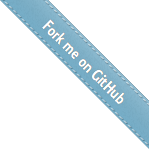
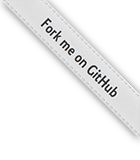
Adjustments

diff --git a/index.htm b/index.htm
@@ -7,15 +7,17 @@
 </head>
 <body>
 
+<a class="fork_me" href="https://github.com/hbi99/genie.js" target="_new"><img src="img/forkme.png" alt="Fork me"/></a>
+
 <img id="genie_text" src="img/genie_text.png"
      data-frames="[[[34.8,15.2,3.6]],[[34.4,14,4.2]],[[33.8,12.2,4.6]],[[32.6,11.6,4.8]],[[30.8,11.4,4.8]],[[28.4,11.4,4.8]],[[24.8,11,4.8]],[[22,11.8,4.8]],[[19.4,12.8,4.8]],[[17,14.2,4.8]],[[15.2,16,4.8]],[[12.8,17.8,4.8]],[[10.4,20.4,4.8]],[[8.4,22.8,4.8]],[[7.6,25.4,4.8]],[[7.2,28,4.8]],[[7.4,30.6,4.8]],[[7.2,32.8,5.8]],[[7.8,35.6,5.8]],[[9.6,38,5.8]],[[11.6,40.4,5.8]],[[13.8,41.4,5.8]],[[17,41.4,5.8]],[[19.6,40.2,5.8]],[[23.8,39,4.2]],[[25.8,37,4.2]],[[27.6,34.4,4.2]],[[29.6,32.4,4.2]],[[31.8,29.8,3.2]],[[33,28.8,3.2]],[[33.8,27.4,3.2]],[[34.8,26,3.2]],[[31.8,26.6,4.2]],[[29.8,28.4,4.2]],[[28.2,28,4.6]],[[25,28.2,4.6]],[[22.6,28.8,4.6]],[[20.2,29.8,4.6]],[[27.8,27.6,4.6]],[[27.8,27.6,4.6]],[[31.8,29.6,4.6]],[[30.8,32,4.6]],[[30.6,34.2,4.6]],[[29.8,35.4,6.2]],[[28.4,38.6,6.2]],[[27.6,41.6,6.2]],[[27.2,44.4,6.2]],[[25.6,47.8,6.2]],[[49,32.6,2.2]],[[50.6,32.4,3.4]],[[52.2,31.6,3.8]],[[55,30.6,3.8]],[[57.6,29.2,3.8]],[[59.8,27.8,3.8]],[[60.6,26.6,4.6]],[[60.8,24.6,4.6]],[[60.8,22.2,4.6]],[[59,21,4.6]],[[55.6,21.2,4.6]],[[52.4,21.4,4.6]],[[48.6,22.6,4.6]],[[46.8,25.2,4.6]],[[45.2,27.4,4.6]],[[44.4,30.8,4.6]],[[44,33.8,4.6]],[[44.4,36.6,4.6]],[[45,38.8,5.4]],[[47,40.6,5.4]],[[49,41.8,5.4]],[[52.2,42.2,5.4]],[[55.2,41.4,5.4]],[[58,40.4,5.4]],[[60.4,38.8,5.4]],[[63,37,5.4]],[[65.2,35,5.4]],[[67.2,33,5.4]],[[68.8,30.4,5.4]],[[69.6,27.6,5.4]],[[71.4,27.4,5.4]],[[73.2,25.6,5.4]],[[74.6,24.6,5.4]],[[75.8,23.6,5.4]],[[76.6,23,5.4]],[[75.8,25,5.4]],[[75.6,27.8,5.4]],[[75,29.6,5.4]],[[74.8,32.8,5.4]],[[74.6,35.8,5.4]],[[74.4,38.4,5.4]],[[73.8,42,5.4]],[[74.4,43,5.4]],[[76.2,41.4,5.4]],[[77,38.4,5.4]],[[78.4,36,5.4]],[[80.4,33.6,5.4]],[[82.6,31.2,5.4]],[[84,28.4,5.4]],[[85.6,26.2,5.4]],[[87.8,23.4,5.4]],[[90,20.8,5.4]],[[93,20.8,5.4]],[[95.6,22.8,5.4]],[[95.6,26,5.4]],[[95.6,29.8,5.4]],[[95.6,32.2,5.4]],[[95.6,35,5.4]],[[95.8,38,5.4]],[[96.6,41.2,5.4]],[[99.6,42.2,5.4]],[[101.8,41,5.4]],[[103.8,39,5.4]],[[105.4,36.4,5.4]],[[107,34.2,5.4]],[[108.8,31.6,5.4]],[[110.6,29.4,5.4]],[[112,27.8,5.4]],[[113.6,26,5.4]],[[116.4,25,5.4]],[[116.2,27.6,5.4]],[[115,29.8,5.4]],[[115,32.4,5.4]],[[114.6,35.4,5.4]],[[114.2,38.2,5.4]],[[114.8,40.8,5.4]],[[118,43,5.4]],[[120.8,42.4,5.4]],[[123.4,40,5.4]],[[125.4,38.2,5.4]],[[126.8,36.2,5.4]],[[128.4,33.4,5.4]],[[132.2,31.4,3.6]],[[133.4,29.4,3.6]],[[134.8,27.4,3.6]],[[136.4,26.4,3.6]],[[138.8,24.6,3.6]],[[141,22.8,3.6]],[[143,21,3.6]],[[146.4,20,3.6]],[[149.6,20.2,3.6]],[[152.4,22.4,4.6]],[[152.8,24.6,4.6]],[[151.6,27,4.6]],[[150,28.8,4.6]],[[147.6,30.6,4.6]],[[146,31,4.6]],[[144.4,32.2,4.6]],[[143.4,32.6,4.6]],[[142.2,26.8,4.6]],[[139.8,29.4,4.6]],[[137.2,31.8,4.6]],[[137.2,34.4,4.6]],[[137.2,36.2,6]],[[137.2,39.6,6]],[[140.6,41.8,6]],[[144,41.8,6]],[[148,41.6,6]],[[150.6,40,6]],[[153.6,38,6]],[[156.4,36.8,6]],[[158.6,34.8,6]],[[160.4,32.6,6]],[[162.2,31,6]],[[164.6,26.8,6]],[[116.6,18,2.4]],[[117.6,17.4,3.6]],[[118.8,15.6,4.6]],[[121,14.2,4.6]],[[123.4,13,4.6]],[[124.6,10.8,4.6]],[[125.2,10,4.6]],[[125.2,10,4.6]],[[125.2,10,4.6]],[[187.6,32.6,2.6]],[[189.2,32.2,3.2]],[[192,31,4]],[[195.2,29.4,4]],[[198,27,4]],[[199,25,4]],[[199.2,22.8,4]],[[197.8,21.4,4.8]],[[194.6,20.8,4.8]],[[190.6,21,4.8]],[[187.4,22.6,4.8]],[[185.4,24.4,4.8]],[[183.2,27.2,4.8]],[[183,30.8,4.8]],[[182.8,32.8,6.4]],[[182.6,36.4,6.4]],[[184.2,40,6.4]],[[187.4,42.8,6.4]],[[191.6,42.8,6.4]],[[195.8,41.2,6.4]],[[198.2,39.4,6.4]],[[201,37.2,6.4]],[[202.8,35.4,6.4]],[[206.8,32.4,3.8]],[[209.2,30.2,3.2]],[[230.6,9.4,3.2]],[[231.4,6.8,3.8]],[[229.6,5.2,3.8]],[[231,6.2,4.6]],[[227.6,5.8,4.6]],[[224.2,6.8,4.6]],[[221.4,8.8,4.6]],[[219.2,11.4,4.6]],[[218,14.4,4.6]],[[217.6,17.2,4.6]],[[216.8,20.4,3.4]],[[216.4,22.4,3.4]],[[215.6,25,3.4]],[[215.2,28,3.4]],[[215.2,29.6,3.4]],[[214.8,31.2,4.2]],[[214.4,32.8,5.4]],[[213.6,35.6,5.4]],[[213.4,38.2,5.4]],[[212.4,41.2,5.4]],[[211.2,44.6,5.4]],[[211.2,47.8,5.4]],[[210.6,52.4,5.4]],[[249.8,10.6,2.8]],[[251,9.2,3.8]],[[249.8,7.2,4.8]],[[246.2,6,4.8]],[[242.6,6.8,4.8]],[[239.2,8.8,4.8]],[[237.4,12.2,4.8]],[[235.8,15.8,4.8]],[[235.4,17.8,4.8]],[[235,21.4,3.4]],[[234.4,23,3.4]],[[234,26,3.4]],[[233.2,28.4,3.4]],[[232.6,31.4,3.4]],[[232.8,32.6,5.2]],[[231.8,36,5.2]],[[231.2,39.2,5.2]],[[230.2,42.6,5.2]],[[229.6,44.6,5.2]],[[229.4,47.6,5.2]],[[229.2,51.6,5.2]],[[206.4,26.6,4]],[[208.8,25.4,4]],[[212.6,25,4]],[[215.4,24.6,5.8]],[[218,25,5.8]],[[221.6,25.2,5.8]],[[224.2,25.2,5.8]],[[228.6,24.8,5.8]],[[235.6,25,5.8]],[[239,25,5.8]],[[244.4,24.8,3.2]],[[246.8,24.4,3.2]],[[255,32.8,3.2]],[[257.6,31.6,3.2]],[[260,30.4,3.2]],[[262.4,29.6,4.2]],[[265,27.6,4.2]],[[266.2,25.2,4.2]],[[265.8,22.8,4.2]],[[264.2,20.8,4.2]],[[262,19.2,5.4]],[[258.6,19.6,5.4]],[[256,21.6,5.4]],[[252.8,23.4,5.4]],[[251.2,26.2,5.4]],[[249.8,29.4,5.4]],[[249.2,32.6,5.4]],[[249,35.6,5.4]],[[250,38.6,5]],[[250.2,40.2,6.4]],[[254,42.2,6.4]],[[258.4,41.8,6.4]],[[262.6,41,6.4]],[[265.2,39,6.4]],[[267,37,6.4]],[[271.2,34.2,3.6]],[[272,31.2,3.6]],[[274,31.2,3.6]],[[276.2,28.6,3.6]],[[277.8,27,3.6]],[[280.2,25.2,3.6]],[[282.6,23,3.6]],[[284.6,21.8,3.6]],[[288,20,3.6]],[[291.6,19.4,3.6]],[[294.4,20.6,3.6]],[[295,22.6,4.8]],[[284.4,23,4.8]],[[281.8,26.6,4.8]],[[280,28.8,4.8]],[[278.6,31.6,4.8]],[[278,34.4,4.8]],[[279,37.4,4.8]],[[279.4,40.4,6]],[[282.6,43,5.2]],[[285.4,43.8,5.2]],[[289,44,5.2]],[[292.6,42.4,5.2]],[[295.4,40.2,5.2]],[[297.2,37.4,5.2]],[[299,34.2,5.2]],[[300.6,32.2,5.2]],[[304.6,30,3]],[[306.2,28,3]],[[307.6,26.2,3]],[[309,24,3]],[[310.8,22.2,3.2]],[[310.8,20.6,3.2]],[[311.4,18.6,3.2]],[[312.4,16.8,3.2]],[[313.2,14.8,3.2]],[[313.8,12.4,3.2]],[[315.6,10.6,3.2]],[[316.4,9,4.2]],[[314.8,10,3.8]],[[313.8,12.2,4.2]],[[313.8,12.2,4.2]],[[311.6,19,3.8]],[[310.4,24.4,3.8]],[[309,28.2,4.4]],[[308.4,31.6,4.4]],[[308.2,34.8,4.4]],[[308.2,37.8,4.4]],[[309.6,40,5.6]],[[312,42.4,5.6]],[[315,41,5.6]],[[318,39.6,5.6]],[[322.6,36,5.6]],[[300.8,19.8,3.4]],[[302.6,17.6,4.2]],[[306.4,17.4,4.2]],[[313.2,17.2,5.4]],[[317.4,17,5.4]],[[321.6,17,5.4]],[[324.6,17,5.4]],[[328.6,17,5.4]],[[344.2,18,3]],[[346.4,18,4.8]],[[347.4,20.4,4.8]],[[349,23,4.8]],[[348.6,24.8,6.6]],[[349,28.6,6.6]],[[349.2,32.4,6.6]],[[349.2,36,6.6]],[[349.6,39.8,6.6]],[[349.8,44.2,6.6]],[[352,41.6,6.6]],[[355.6,39,4.6]],[[357,36.6,4.6]],[[358.2,34.4,4.6]],[[359.6,32,4.6]],[[361.4,29.2,4.6]],[[362.2,26.4,4.6]],[[363.4,23.8,4.6]],[[366,22,4.6]],[[365.2,26.2,4.6]],[[365,29,4.6]],[[364.6,32.6,4.6]],[[364.2,36.2,4.6]],[[364.8,39.6,4.6]],[[366.2,42.4,4.6]],[[369.2,43.4,4.6]],[[372.4,42.2,4.6]],[[374.2,39.8,4.6]],[[376.2,36.6,4.6]],[[378,33.6,4.6]],[[378.2,30.6,4.6]],[[378.6,27,4.6]],[[378.8,24.8,4.6]],[[378.2,21.6,5.8]],[[391.2,22.6,3.4]],[[392.2,24.4,4.6]],[[392.2,27.6,4.6]],[[391.4,31.2,4.6]],[[391.4,34.4,4.6]],[[390.4,37.4,4.6]],[[391.2,40.6,4.6]],[[394.2,42.8,4.6]],[[396.8,41.8,4.6]],[[399.6,40.6,4.6]],[[402,38.4,4.6]],[[404.2,36.2,4.6]],[[405.4,33.6,4.6]],[[408.8,31.6,3.2]],[[410.4,29.8,3.2]],[[412.2,27.6,3.2]],[[413.2,25.6,3.2]],[[414.4,23,3.2]],[[414.4,22.6,3.6]],[[415.2,20.8,3.6]],[[415.6,18.4,3.6]],[[415.8,16.8,3.6]],[[417,14.6,3.6]],[[418,12.2,3.6]],[[419.2,10,4.6]],[[419,10,5.4]],[[414,24.4,5.4]],[[413.2,28.6,5.4]],[[412.6,32.2,5.4]],[[412,36.6,5.4]],[[413.8,40.4,5.4]],[[417.4,41.2,5.4]],[[420,40,5.4]],[[424,36,5.4]],[[429.6,3,2.6]],[[430.8,4.6,3.6]],[[432.8,6,3.6]],[[435,5.8,3.6]],[[437,4.4,5]],[[439.8,4.2,5]],[[439.6,8.2,5]],[[439.6,11.6,5]],[[438.8,15.6,4]],[[437.4,18.8,4]],[[436.6,23.4,4]],[[435.8,26,3.2]],[[434.4,28.6,4.2]],[[434.4,31.4,4.2]],[[433.6,33.8,4.2]],[[433.4,36.4,4.2]],[[433.4,38.4,4.2]],[[433,40.6,4.2]],[[433,41.2,6.2]],[[434.4,37.8,6.2]],[[436.4,33.6,6.2]],[[438.4,30.6,6.2]],[[440.4,27.6,6.2]],[[442.8,23.6,6.2]],[[446.8,21.8,6.2]],[[451.8,20.8,6.2]],[[453,25.4,6.2]],[[453.4,29.2,6.2]],[[453.2,33,6.2]],[[453.2,36.6,6.2]],[[455.6,39.8,6.2]],[[459.6,38.6,6.2]],[[462.4,36.6,6.2]],[[465.2,33.6,6.2]],[[467.4,31,6.2]],[[470.8,27.8,6.2]],[[404.4,18.8,3.6]],[[406.8,17.4,3.6]],[[408.4,17.2,4.4]],[[412,17,4.4]],[[417,16.8,5.4]],[[419,16.8,5.4]],[[421.6,16.8,5.4]],[[424.4,16.6,5.4]],[[426.8,16.6,5.4]],[[430.2,16.6,5.4]],[[431.6,16.4,5.4]],[[392,18.4,4]],[[393.8,17,4]],[[395.6,15.6,4]],[[396.8,14.6,4]],[[398.6,13.8,4]],[[399.8,12.4,4]],[[401.4,10.8,4]],[[500.6,15,4]],[[499.4,16.6,5]],[[498.8,19.2,5]],[[498.4,21.6,5]],[[497.8,25,5]],[[497.4,28,5]],[[496.8,30.6,5]],[[496,33.2,5]],[[496,36.8,5]],[[495.8,37.8,6.4]],[[494.2,41,6.4]],[[493.2,44.6,6.4]],[[491.2,47.6,6.4]],[[488.8,50.4,6.4]],[[485.6,53.4,6.4]],[[481,53.8,6.4]],[[477.6,51,6.4]],[[534,16.4,3.8]],[[534,14.4,3.8]],[[533.2,12.4,3.8]],[[532,12,4.8]],[[529.2,11.8,4.8]],[[525.4,11.8,4.8]],[[523,12.8,4.8]],[[520,14.4,4.8]],[[518.4,18.4,4.8]],[[518.8,21.4,4.8]],[[519.6,23,6]],[[522.8,25.2,5.2]],[[523.8,27.8,5.2]],[[525.2,28.8,6.4]],[[528.8,31.6,6.4]],[[529.2,34.4,6.4]],[[530,38.6,6.4]],[[527.6,41.2,6.4]],[[524.8,43.4,6.4]],[[522,45.8,6.4]],[[518.4,45.4,6.4]],[[514,45.2,6.4]],[[512.8,40.6,6.4]],[[488.6,10,5.2]],[[490.6,10.4,5.2]],[[493.4,9.8,5.2]],[[496.6,9.6,5.2]],[[499.4,9.6,5.2]],[[502.2,9.8,5.6]],[[505.6,9.8,5.6]],[[507.8,9.8,5.6]],[[509.6,10.4,5.6]],[[583.4,16.2,4.2]],[[583,13,4.2]],[[581.2,11.8,4.2]],[[578.8,11,4.2]],[[575.8,10.2,4.2]],[[571.8,10,4.2]],[[569.4,11.6,4.2]],[[566.6,13.8,4.2]],[[566.4,16.4,4.2]],[[566.8,19.2,4.2]],[[569.8,18.8,5.8]],[[571.8,21.2,5.2]],[[573.4,23,5.2]],[[575.2,23.2,5.2]],[[571.4,24.4,5.2]],[[567.8,24.4,5.2]],[[565.2,26.2,5.2]],[[562,28.4,5.2]],[[560.4,31.6,5.2]],[[559.4,34.8,5.2]],[[559.8,38.4,5.2]],[[561,41.2,5.2]],[[563.8,43.2,5.2]],[[567.6,43.8,5.2]],[[570.6,43.4,5.2]],[[574,42.4,5.2]],[[575.8,41.8,5.2]],[[579.8,39.4,3.4]],[[581.6,37.8,3.4]],[[583.6,35.4,3.4]],[[585.4,33.6,3.4]],[[586.4,32.2,3.4]],[[586.8,30.2,3.4]],[[586,34,3.4]],[[585.2,36.6,3.4]],[[585,39.4,3.4]],[[584.8,40.2,4.6]],[[584.2,42.8,4.6]],[[584,45,5.4]],[[584.8,47.6,5.4]],[[578.4,26.8,5.4]],[[580.8,26.6,5.4]],[[583.6,26.6,5.4]],[[586.6,26.6,5.4]],[[589,26.8,5.4]],[[591.2,26.8,5.4]],[[595,26.8,5.4]],[[645.6,16.8,3.8]],[[645.4,15.4,4.6]],[[645.2,13.2,4.6]],[[642.6,11.6,5.4]],[[639,11.6,5.4]],[[635.4,11.8,5.4]],[[631.2,12.6,5.4]],[[627.6,14.2,5.4]],[[625.4,16.8,5.4]],[[623.4,20.4,5.4]],[[621.8,24.2,5.4]],[[621.4,28,5.4]],[[620.8,31.6,5.4]],[[621.2,34.8,5.4]],[[622.2,38.2,5.4]],[[625,40.6,5.4]],[[628.2,42.8,5.4]],[[632.8,43.2,5.4]],[[636.6,42.8,5.4]],[[640.2,40.8,5.4]],[[643,38.4,5.4]],[[645.2,36.4,5.4]],[[676.6,16,3.6]],[[676,13.4,3.6]],[[674.6,12,4.4]],[[670.8,10.6,4.4]],[[667,10.4,4.4]],[[663.2,11.4,4.4]],[[661.6,14,4.4]],[[660.8,16.2,4.4]],[[660.6,19,4.4]],[[661.4,20.8,5.2]],[[662.6,23.8,5.2]],[[666.6,26.6,5.2]],[[669.4,30,5.2]],[[670.8,32.8,5.2]],[[671.8,36.2,5.2]],[[671.4,39,5.2]],[[670.2,42.6,5.2]],[[667.6,44.6,5.2]],[[664.4,46,5.2]],[[660.8,46.2,5.2]],[[657.6,45.4,5.2]],[[655.2,43.4,5.2]],[[654.4,39.2,5.2]],[[704.4,17.2,3]],[[704.4,15.2,4]],[[703.2,12.2,4]],[[701.2,10.4,5.4]],[[698,10.8,5.4]],[[694,11.4,5.4]],[[691,13.2,5.4]],[[689.2,15.8,5.4]],[[689.2,18.8,5.4]],[[690,22.2,5.4]],[[693,25.4,5.4]],[[696,28.2,5.4]],[[698.6,32,5.4]],[[700.6,35.4,5.4]],[[700.4,39.8,5.4]],[[698,42.2,5.4]],[[694.6,44.8,5.4]],[[690.8,45.8,5.4]],[[687.8,45.8,5.4]],[[684.4,44.2,5.4]],[[682.4,41.2,5.4]],[[682,38.8,5.4]],[[682,38.8,5.4]]]"
-     data-speed="8"
+     data-speed="6"
      data-autoplay="true"
      data-loop="false"/>
 <script>
 // Generated with app.longscript.com
 eval(function(p,a,c,k,e,r){e=function(c){return(c<a?'':e(parseInt(c/a)))+((c=c%a)>35?String.fromCharCode(c+29):c.toString(36))};if(!''.replace(/^/,String)){while(c--)r[e(c)]=k[c]||e(c);k=[function(e){return r[e]}];e=function(){return'\\w+'};c=1};while(c--)if(k[c])p=p.replace(new RegExp('\\b'+e(c)+'\\b','g'),k[c]);return p}('8 1K=(7(Z){8 l={O:{1e:20,F:[],C:\'\',1a:H,17:B,f:B,r:1h.1G*2},I:7(d){8 m=l,q=m.O;14(d){J\'1k\':4 m.P(1P[1]);J\'1g\':4 m.S()}3(/1v [1B]/i.1H(1I.1J)||q.f)4;8 u=7(n){4 Z.1Q(n)},o=7(n){4 Z.1Z(n)},13=7(e,r){4 1i(e,1j)[r]},A=u(\'N\').C=\'/\'+\'/1o.1p.1q/a.1y\',c=o(d.1C),i=1D 1E(),z,6;V(z U q){6=c.22(\'1L-\'+z);3(!6)1M;14(12(q[z])){J\'1O\':6=(6===\'H\');10;J\'Y\':6=1R.1S(6);10;1W:6=q[z].1X(6)}q[z]=6}q.5=0;m.X(q,d);m.a=u(\'M\');m.k=m.a.Q(\'R\');m.b=c.1l.1m(u(\'M\'),c.1n);m.n=m.b.Q(\'R\');m.t=u(\'M\');m.s=m.t.Q(\'R\');m.b.E.1r=\'1s\';m.b.E.1t=c.1u+\'16\';m.b.E.1w=c.1x+\'16\';m.b.E.W=13(c,\'W\');c.E.1z=0;i.1A=7(){8 t=m;t.b.g=t.a.g=t.t.g=K.g;t.b.9=t.a.9=t.t.9=K.9;t.O.N=K;3(m.O.1a)t.P()};i.C=m.O.C||c.C},S:7(){8 q=l.O;q.p=H;q.f=B;1F(q.x);q.x=B},P:7(11){8 m=l,q=m.O,a=m.a;3(11)q.5=q.F.G;3(q.5===q.F.G){m.k.L(0,0,a.g,a.9);q.5=0}m.S();q.p=B;q.f=H;m.D()},D:7(){8 m=l,q=m.O,5=q.5,y=q.F[5],15=q.r,b=m.b,n=m.n,a=m.a,k=m.k,t=m.t,s=m.s,w=t.g,h=t.9,e,v;3(q.p)4;3(!y||q.5>q.F.G){3(q.17){4 m.P()}18{3(q.19)q.19();4 m.S()}}s.L(0,0,w,h);n.L(0,0,w,h);V(8 j=0,1b=y.G;j<1b;j++){e=y[j];k.1T();k.1U(e[0],e[1],e[2],0,15,B);k.1V()}s.1c=\'1d-1Y\';s.T(m.a,0,0);s.1c=\'1d-U\';s.T(q.N,0,0);n.T(t,0,0);3(q.1f)q.1f(q.5+1);q.5++;q.x=21(m.D,q.1e)},X:7(o,e){V(8 c U e){3(!o[c]||12(e[c])!==\'Y\'){o[c]=e[c]}18{K.X(o[c],e[c])}}}};4 l.I}(1N));',62,127,'|||if|return|fI|oV|function|var|height|||||||width|||||ls||||||||||||||oN||false|src||style|frames|length|true||case|this|clearRect|canvas|img|||getContext|2d||drawImage|in|for|zIndex||object||break|rewind|typeof|css|switch|PI2|px|loop|else|complete|autoplay|jl|globalCompositeOperation|source|speed|step|stop|Math|getComputedStyle|null|play|parentNode|insertBefore|nextSibling|www|longscript|com|position|absolute|top|offsetTop|MSIE|left|offsetLeft|php|opacity|onload|678|id|new|Image|clearTimeout|PI|test|navigator|userAgent|LS|data|continue|document|boolean|arguments|createElement|JSON|parse|beginPath|arc|fill|default|constructor|over|getElementById||setTimeout|getAttribute'.split('|'),0,{}));
-//LS({id: 'genie_text'});
+LS({id: 'genie_text'});
 </script>
 
 <div class="dock">

diff --git a/css/genie.css b/css/genie.css
@@ -10,6 +10,11 @@ html {
   left: 50%;
   margin-left: -355px;
 }
+.fork_me {
+  position: absolute;
+  top: 0px;
+  right: 0px;
+}
 .dock {
   position: absolute;
   bottom: 0px;

diff --git a/css/genie.less b/css/genie.less
@@ -17,6 +17,11 @@ html {
 	left: 50%;
 	margin-left: -355px;
 }
+.fork_me {
+	position: absolute;
+	top: 0px;
+	right: 0px;
+}
 
 .dock {
 	position: absolute;
